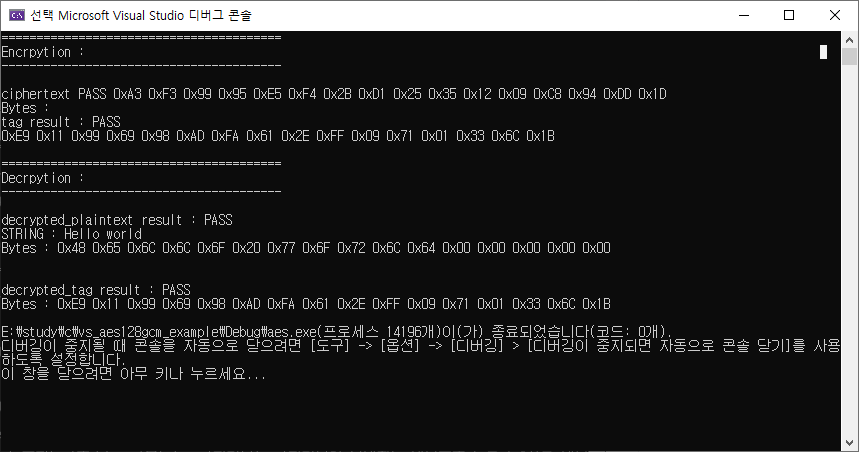
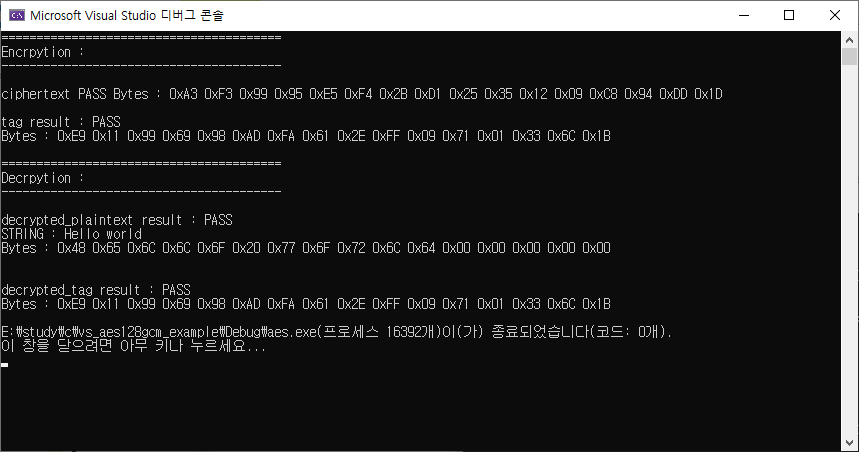
first

diff --git a/aes/aes.cpp b/aes/aes.cpp
@@ -3,7 +3,7 @@
 #include "aes128e.h"
 #include "aes128gcm.h"
 
-//비교함수
+//비교함수 memcmp와 동일한 기능
 int compare(const void* a, const void* b, size_t len)
 {
 	const unsigned char* aa = (unsigned char*)a;
@@ -18,7 +18,7 @@ int compare(const void* a, const void* b, size_t len)
 }
 
 //암호 키
-const unsigned char key[16] = {	0x98, 0xff, 0xf6, 0x7e, 0x64, 0xe4, 0x6b, 0xe5, 0xee, 0x2e, 0x05, 0xcc, 0x9a, 0xf6, 0xd0, 0x12 };
+const unsigned char key[16] = { 0x98, 0xff, 0xf6, 0x7e, 0x64, 0xe4, 0x6b, 0xe5, 0xee, 0x2e, 0x05, 0xcc, 0x9a, 0xf6, 0xd0, 0x12 };
 //1회용 초기화 키 Nonce
 const unsigned char IV[12] = { 0x2d, 0xfb, 0x42, 0x9a, 0x48, 0x69, 0x7c, 0x34, 0x00, 0x6d, 0xa8, 0x86 };
 
@@ -29,67 +29,73 @@ const unsigned char plaintext[16] = "Hello world";
 const unsigned char add_data[16] = { 0xa0, 0xca, 0x58, 0x61, 0xc0, 0x22, 0x6c, 0x5b, 0x5a, 0x65, 0x14, 0xc8, 0x2b, 0x77, 0x81, 0x5a };
 
 //tag 검증용 데이터 GMAC
-const unsigned char tag_ref[16] = {	0xE9, 0x11, 0x99, 0x69, 0x98, 0xAD, 0xFA, 0x61, 0x2E, 0xFF, 0x09, 0x71, 0x01, 0x33, 0x6C, 0x1B };
+const unsigned char tag_ref[16] = { 0xE9, 0x11, 0x99, 0x69, 0x98, 0xAD, 0xFA, 0x61, 0x2E, 0xFF, 0x09, 0x71, 0x01, 0x33, 0x6C, 0x1B };
 
 //암호화 검증용 데이터
 const unsigned char ciphertext_ref[16] = { 0xA3, 0xF3, 0x99, 0x95, 0xE5, 0xF4, 0x2B, 0xD1, 0x25, 0x35, 0x12, 0x09, 0xC8, 0x94, 0xDD, 0x1D };
 
 int main()
 {
+	//암호화 데이터 저장용
 	unsigned char ciphertext[16];
+	//복호화 데이터 저장용
 	unsigned char decrypted_plaintext[16];
+	//암호화시 만들어지는 TAG(GMAC)
 	unsigned char tag[16];
+	//복호화시 만들어지는 TAG(GMAC)
 	unsigned char decrypted_tag[16];
+	//암호화 블럭 크기 1 = 16바이트
 	unsigned int block_len = 1;
+	//추가 인증 데이터 크기 블럭단위이며 1블럭은 16바이트
 	unsigned int add_len = 1;
 
 	printf("========================================\n");
 	printf("Encrpytion :\n");
 	printf("----------------------------------------\n");
 
-	//암호화!!
-	aes128gcm_enc(ciphertext, tag, key, IV, plaintext, block_len, add_data, add_len);		
+	//암호화 시작!!
+	aes128gcm_enc(ciphertext, tag, key, IV, plaintext, block_len, add_data, add_len);
 
-	if (ciphertext != NULL) {
-		printf("ciphertext %s ", !compare(ciphertext, ciphertext_ref, (block_len) * 16) ? "PASS" : "FAIL");
-		for (int i = 0; i < 16 * block_len; i++) {
-			printf("0x%02X ", ciphertext[i]);
-		}
-		printf("\n");
+	//암호화 데이터 출력
+	printf("ciphertext %s ", !compare(ciphertext, ciphertext_ref, (block_len) * 16) ? "PASS" : "FAIL");
+	printf("Bytes : ");
+	for (int i = 0; i < 16 * block_len; i++) {
+		printf("0x%02X ", ciphertext[i]);
 	}
-	if (tag != NULL) {
-		printf("Bytes : ");
-		printf("tag result : %s\n", !compare(tag, tag_ref, 16) ? "PASS" : "FAIL");
-		for (int i = 0; i < 16 * block_len; i++) {
-			printf("0x%02X ", tag[i]);
-		}
-		printf("\n");
+	printf("\n");
+
+	//암호화시 생성된 TAG 출력	
+	printf("tag result : %s\n", !compare(tag, tag_ref, 16) ? "PASS" : "FAIL");
+	printf("Bytes : ");
+	for (int i = 0; i < 16 * block_len; i++) {
+		printf("0x%02X ", tag[i]);
 	}
+	printf("\n");
 
 	printf("\n========================================\n");
 	printf("Decrpytion :\n");
 	printf("----------------------------------------\n");
 
-	//복호화!!
+	//복호화 시작!!
 	aes128gcm_dec(decrypted_plaintext, decrypted_tag, key, IV, ciphertext, block_len, add_data, add_len);
-	
-	if (decrypted_plaintext != NULL) {
-		printf("decrypted_plaintext result : %s\n", compare(decrypted_plaintext, plaintext, (block_len) * 16)==0 ? "PASS" : "FAIL");
-		printf("STRING : %s \n", decrypted_plaintext);
-		printf("Bytes : ");
-		for (int i = 0; i < 16 * block_len; i++) {
-			printf("0x%02X ", decrypted_plaintext[i]);
-		}
-		printf("\n\n");
-	}
 
-	if (decrypted_tag != NULL) {
-		printf("decrypted_tag result : %s\n", compare(tag, decrypted_tag, 16)==0 ? "PASS" : "FAIL");
-		printf("Bytes : ");
-		for (int i = 0; i < 16; i++) {
-			printf("0x%02X ", decrypted_tag[i]);
-		}
-		printf("\n");
+	//복호화 데이터 출력	
+	printf("decrypted_plaintext result : %s\n", compare(decrypted_plaintext, plaintext, (block_len) * 16) == 0 ? "PASS" : "FAIL");
+	printf("STRING : %s \n", decrypted_plaintext);
+	printf("Bytes : ");
+	for (int i = 0; i < 16 * block_len; i++) {
+		printf("0x%02X ", decrypted_plaintext[i]);
 	}
+	printf("\n\n");
+
+	// 복호화시 생성된 TAG와 위에서 암호화시 생성된 TAG를 비교 
+	// 만약 여기서 TAG가 다르다면 변조된 데이터!!!
+	printf("decrypted_tag result : %s\n", compare(tag, decrypted_tag, 16) == 0 ? "PASS" : "FAIL");
+	// 복호화시 생성된 TAG 출력
+	printf("Bytes : ");
+	for (int i = 0; i < 16; i++) {
+		printf("0x%02X ", decrypted_tag[i]);
+	}
+	printf("\n");
+
 }
-
